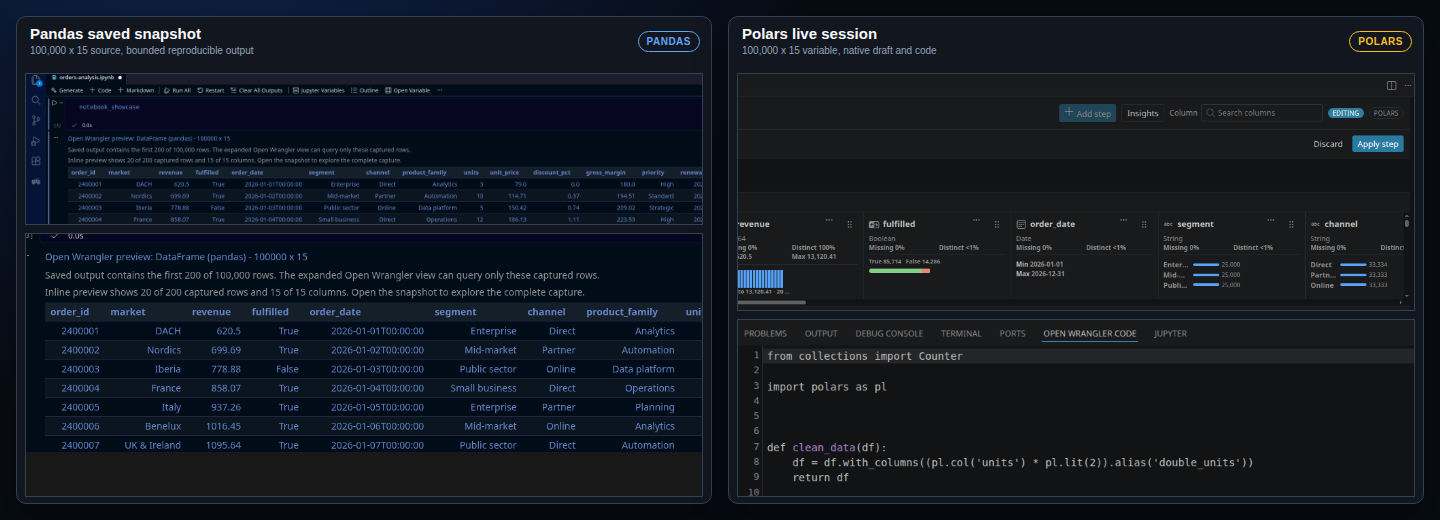
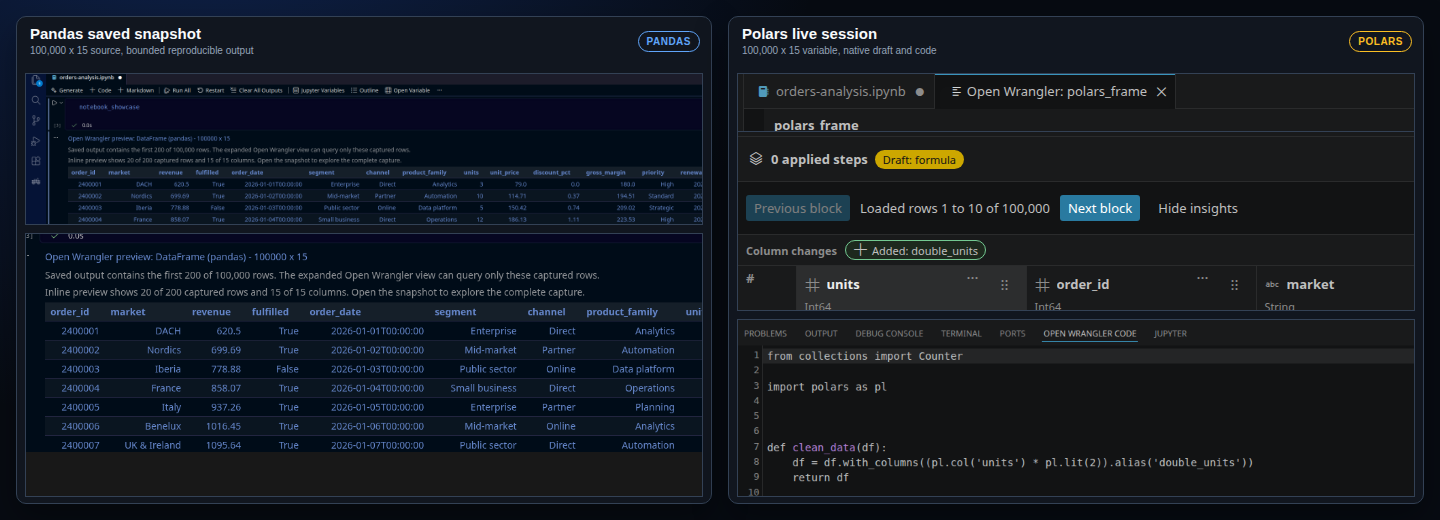
docs: clarify notebook media and v1.1 history

diff --git a/CHANGELOG.md b/CHANGELOG.md
@@ -10,6 +10,12 @@ All notable changes to Open Wrangler are documented here. The project follows Se
 
 ### Changed
 
+- Rebuilt the README media around three compact, portable product views: a realistic file-backed dataframe, an automatic Pandas notebook snapshot, and a live Polars notebook draft with summaries, diff, and generated code. The copy now distinguishes saved snapshots from live variables, describes DuckDB's current file-only scope, and treats benchmark fixture sizes as evidence points rather than row limits.
+- Raised the gallery and README logo raster to 512 × 512 from its committed vector source while retaining the 128px fallback and monochrome Activity Bar icon. Static PNG delivery now stays sharp and predictable across GitHub, the Visual Studio Marketplace, and Open VSX.
+- Shortened the isolated packaged-editor capture viewport and added deterministic real-Jupyter media checks for 100,000-row by 15-column Pandas and Polars dataframes. Captures reject transient hovers and notifications while keeping the required notebook context, type-aware statistics, and native code visible.
+- Composed the packaged workbench and notebook evidence into fixed-size sRGB images for GitHub, the Visual Studio Marketplace, and Open VSX. The workbench requires exact revenue minimum, maximum, mean, and median values, while README copy distinguishes bounded saved snapshots from live paged sources and benchmark evidence from dataframe limits.
+- Added a real packaged VS Code and released-Jupyter PySpark Classic gallery capture over a deterministic 100,000-row by 15-column DataFrame. The media and README label PySpark experimental and viewing-only, without implying file, cleaning, export, code-insertion, or saved-output support.
+- Added a separate native DuckDB file gallery generated from a real rich Parquet source with decimal, time-zone, list, and struct columns, while keeping notebook relations explicitly unsupported.
 - Replaced the all-column Insights drawer with focused Column, Dataset, and Filters views. Column shows one stable selected identity with exact numeric min, max, mean, median, and standard deviation plus explicit datetime, boolean, categorical, null, NaN, and top-value details. Dataset statistics and filter values now run only while their matching view is active, so opening Insights no longer starts a whole-schema profiling queue.
 - Updated the release guide to reflect the activated personal `Matt17BR` Marketplace workload identity, the automatic pipeline's proven `v1.0.3` handoff, and the still-pending non-blocking Open VSX namespace claim.
 - Added a bounded, source-only pull-request `Fast feedback` lane that runs deterministic static checks alongside canonical packaging and labels each failure class separately. The existing full `validate` gate remains unchanged and authoritative, so this scheduling improvement does not lower, remove, or bypass any merge or release requirement.
@@ -24,15 +30,6 @@ All notable changes to Open Wrangler are documented here. The project follows Se
 - Replaced retained DuckDB relations with immutable, connection-free SQL and schema plans. Open, paging, transforms, custom code, and exports now release each request-local `DuckDBPyRelation` before closing its owner, so DuckDB 1.5 cannot retain a Windows Parquet handle through the relation's connection reference. The runtime stays native and never calls `DuckDBPyRelation.close()` or converts through another engine.
 
 ## [1.0.3] - 2026-07-28
-
-### Changed
-
-- Rebuilt the README media around three compact, portable product views: a realistic file-backed dataframe, an automatic Pandas notebook snapshot, and a live Polars notebook draft with summaries, diff, and generated code. The copy now distinguishes saved snapshots from live variables, describes DuckDB's current file-only scope, and treats benchmark fixture sizes as evidence points rather than row limits.
-- Raised the gallery and README logo raster to 512 × 512 from its committed vector source while retaining the 128px fallback and monochrome Activity Bar icon. Static PNG delivery now stays sharp and predictable across GitHub, the Visual Studio Marketplace, and Open VSX.
-- Shortened the isolated packaged-editor capture viewport and added deterministic real-Jupyter media checks for 100,000-row by 15-column Pandas and Polars dataframes. Captures reject transient hovers and notifications while keeping the required notebook context, type-aware statistics, and native code visible.
-- Composed the packaged workbench and notebook evidence into fixed-size sRGB images for GitHub, the Visual Studio Marketplace, and Open VSX. The workbench requires exact revenue minimum, maximum, mean, and median values, while README copy distinguishes bounded saved snapshots from live paged sources and benchmark evidence from dataframe limits.
-- Added a real packaged VS Code and released-Jupyter PySpark Classic gallery capture over a deterministic 100,000-row by 15-column DataFrame. The media and README label PySpark experimental and viewing-only, without implying file, cleaning, export, code-insertion, or saved-output support.
-- Added a separate native DuckDB file gallery generated from a real rich Parquet source with decimal, time-zone, list, and struct columns, while keeping notebook relations explicitly unsupported.
 
 ### Fixed
 
